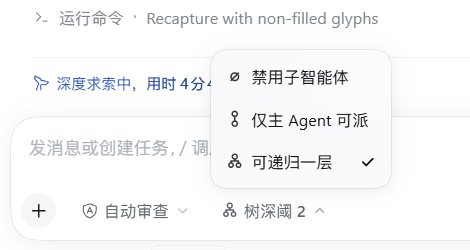
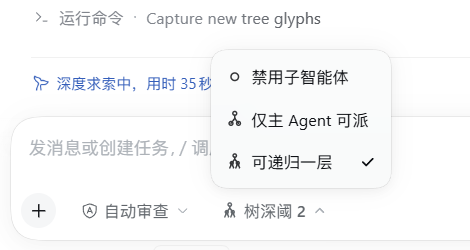
style: draw the level glyphs as the tree each level allows
The glyphs had the wrong reading. They now follow the delegation each level
permits: level 0 is a lone node with no branch, level 1 is that node with one
fork, and level 2 is the same fork with each arm forking once more.

diff --git a/client.js b/client.js
@@ -154,31 +154,38 @@ window.__ModuleLoader__.load({
     };
 
     /**
-     * One 14px glyph per depth: a lone root for 0 (with a slash), a root with
-     * one child for 1, a root with two children for 2. These mark what the
-     * level means, the way the permission rows carry a shield per preset.
+     * One 14px glyph per depth, drawn as the tree it describes: a lone node for
+     * 0 (nothing can branch), one fork for 1, and a fork whose arms fork again
+     * for 2.
      * @param depth - level to draw, or undefined for a value outside the set.
      */
     function DepthGlyph(depth) {
       var children;
       if (depth === 0) {
-        children = [
-          h('circle', { key: 'n', cx: 7, cy: 7, r: 3 }),
-          h('path', { key: 's', d: 'M4.2 9.8 L9.8 4.2' }),
-        ];
+        // One node and no branch at all: nothing may be delegated.
+        children = [h('circle', { key: 'n', cx: 7, cy: 7, r: 3 })];
       } else if (depth === 1) {
+        // The root plus exactly one fork.
         children = [
-          h('circle', { key: 'a', cx: 7, cy: 3.1, r: 2 }),
-          h('path', { key: 'e', d: 'M7 5.1 V 8.9' }),
-          h('circle', { key: 'b', cx: 7, cy: 10.9, r: 2 }),
+          h('circle', { key: 'r', cx: 7, cy: 2.7, r: 1.5 }),
+          h('path', { key: 's', d: 'M7 4.2 V 6.7' }),
+          h('path', { key: 'f', d: 'M4 10.7 L7 6.7 L10 10.7' }),
+          h('circle', { key: 'a', cx: 4, cy: 10.7, r: 1.5 }),
+          h('circle', { key: 'b', cx: 10, cy: 10.7, r: 1.5 }),
+        ];
+      } else if (depth === 2) {
+        // The same fork, with each arm forking once more.
+        children = [
+          h('circle', { key: 'r', cx: 7, cy: 2.1, r: 1.3 }),
+          h('path', { key: 's', d: 'M7 3.4 V 4.9' }),
+          h('path', { key: 'f', d: 'M4.6 8 L7 4.9 L9.4 8' }),
+          h('circle', { key: 'a', cx: 4.6, cy: 8, r: 1.1 }),
+          h('circle', { key: 'b', cx: 9.4, cy: 8, r: 1.1 }),
+          h('path', { key: 'l', d: 'M3.1 11.9 L4.6 8 M6.1 11.9 L4.6 8' }),
+          h('path', { key: 'm', d: 'M7.9 11.9 L9.4 8 M10.9 11.9 L9.4 8' }),
         ];
       } else {
-        children = [
-          h('circle', { key: 'a', cx: 7, cy: 2.9, r: 1.9 }),
-          h('path', { key: 'e', d: 'M7 4.8 V 6.4 M4 6.4 H 10 M4 6.4 V 8 M10 6.4 V 8' }),
-          h('circle', { key: 'b', cx: 4, cy: 9.7, r: 1.7 }),
-          h('circle', { key: 'c', cx: 10, cy: 9.7, r: 1.7 }),
-        ];
+        children = [h('circle', { key: 'n', cx: 7, cy: 7, r: 3 })];
       }
       // Inherited by the shapes below: without these the circles default to a
       // black fill and read as blobs at 14px.
